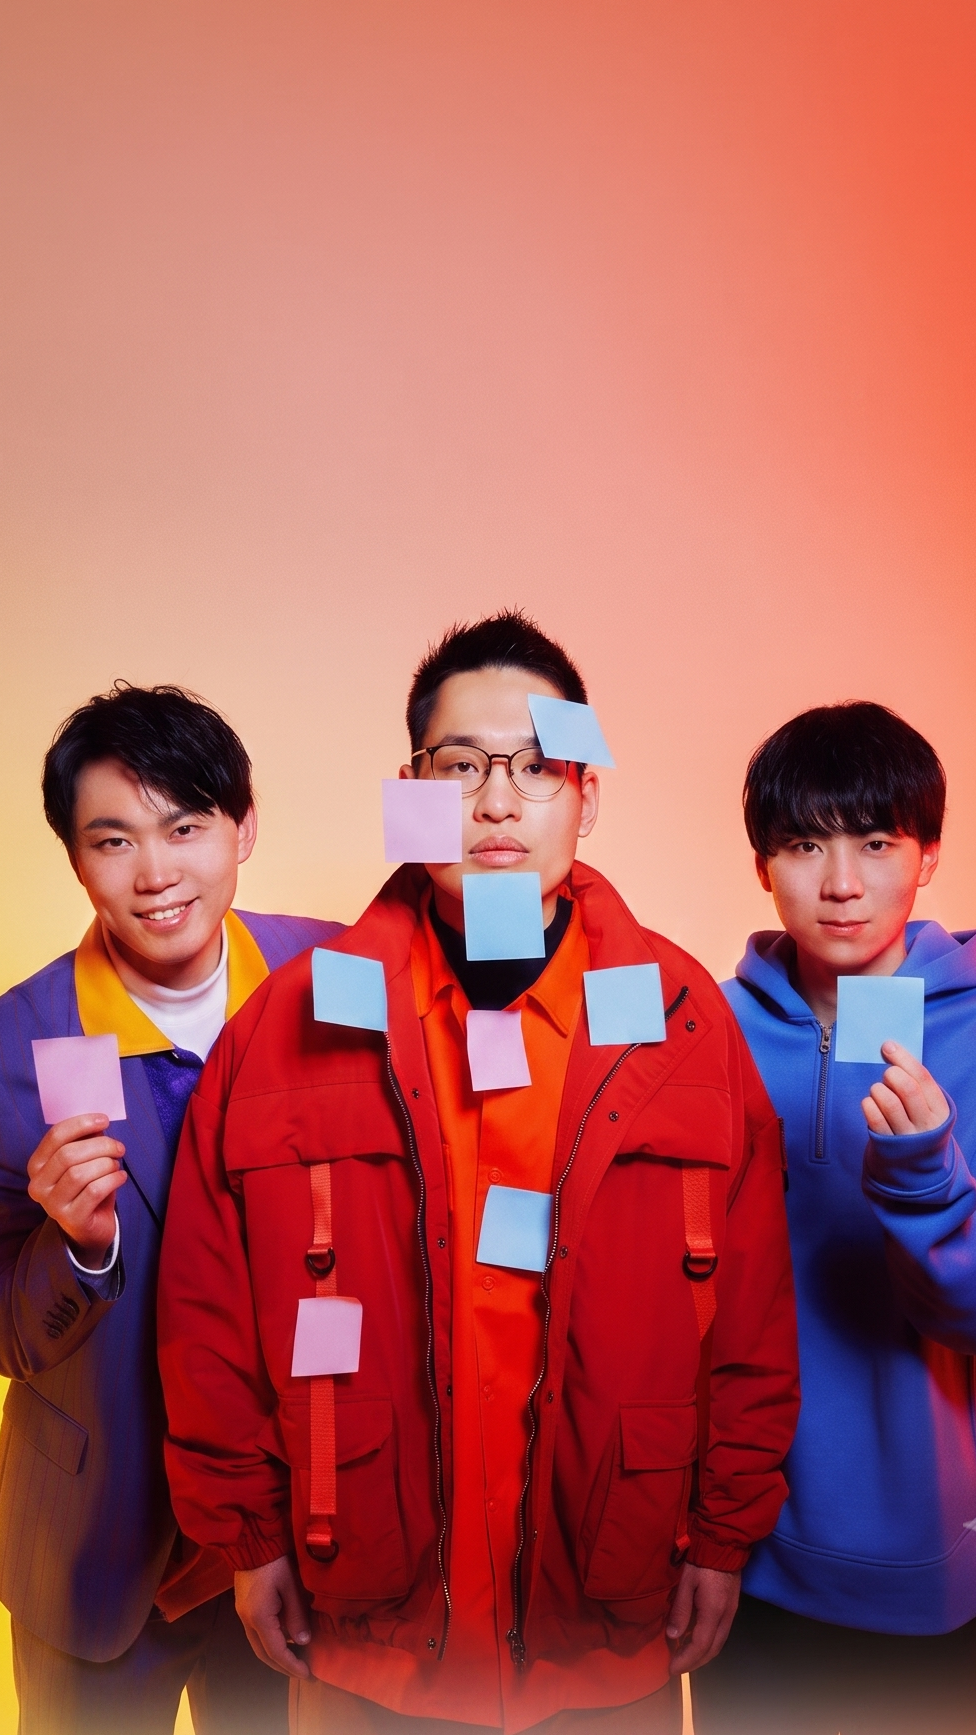
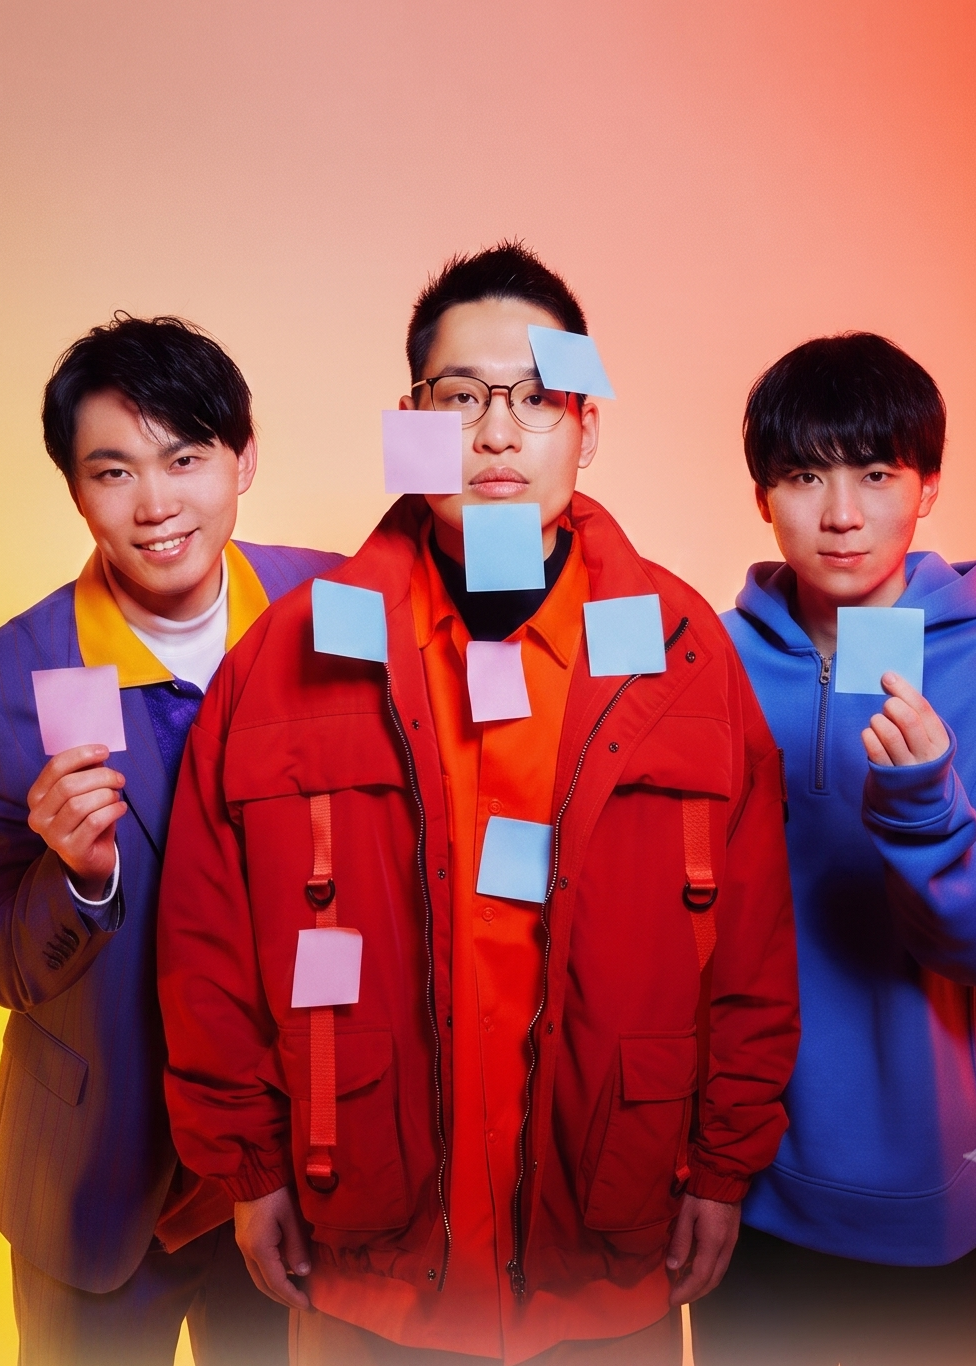
fix(mobile-hero): Restore objectPosition to natural 50% 50% for newly replaced source image on disk

diff --git a/src/components/mobile-hero-carousel.tsx b/src/components/mobile-hero-carousel.tsx
@@ -18,7 +18,7 @@ export function MobileHeroCarousel() {
           unoptimized
           priority
           quality={95}
-          style={{ objectFit: "cover", objectPosition: "50% 15000%" }}
+          style={{ objectFit: "cover", objectPosition: "50% 50%" }}
         />
         {/* 顔には一切被らないよう、文字がある最下部35%のみにグラデーションを限定 */}
         <div className="absolute inset-x-0 bottom-0 h-[38%] bg-gradient-to-t from-black via-black/80 to-transparent pointer-events-none" />
